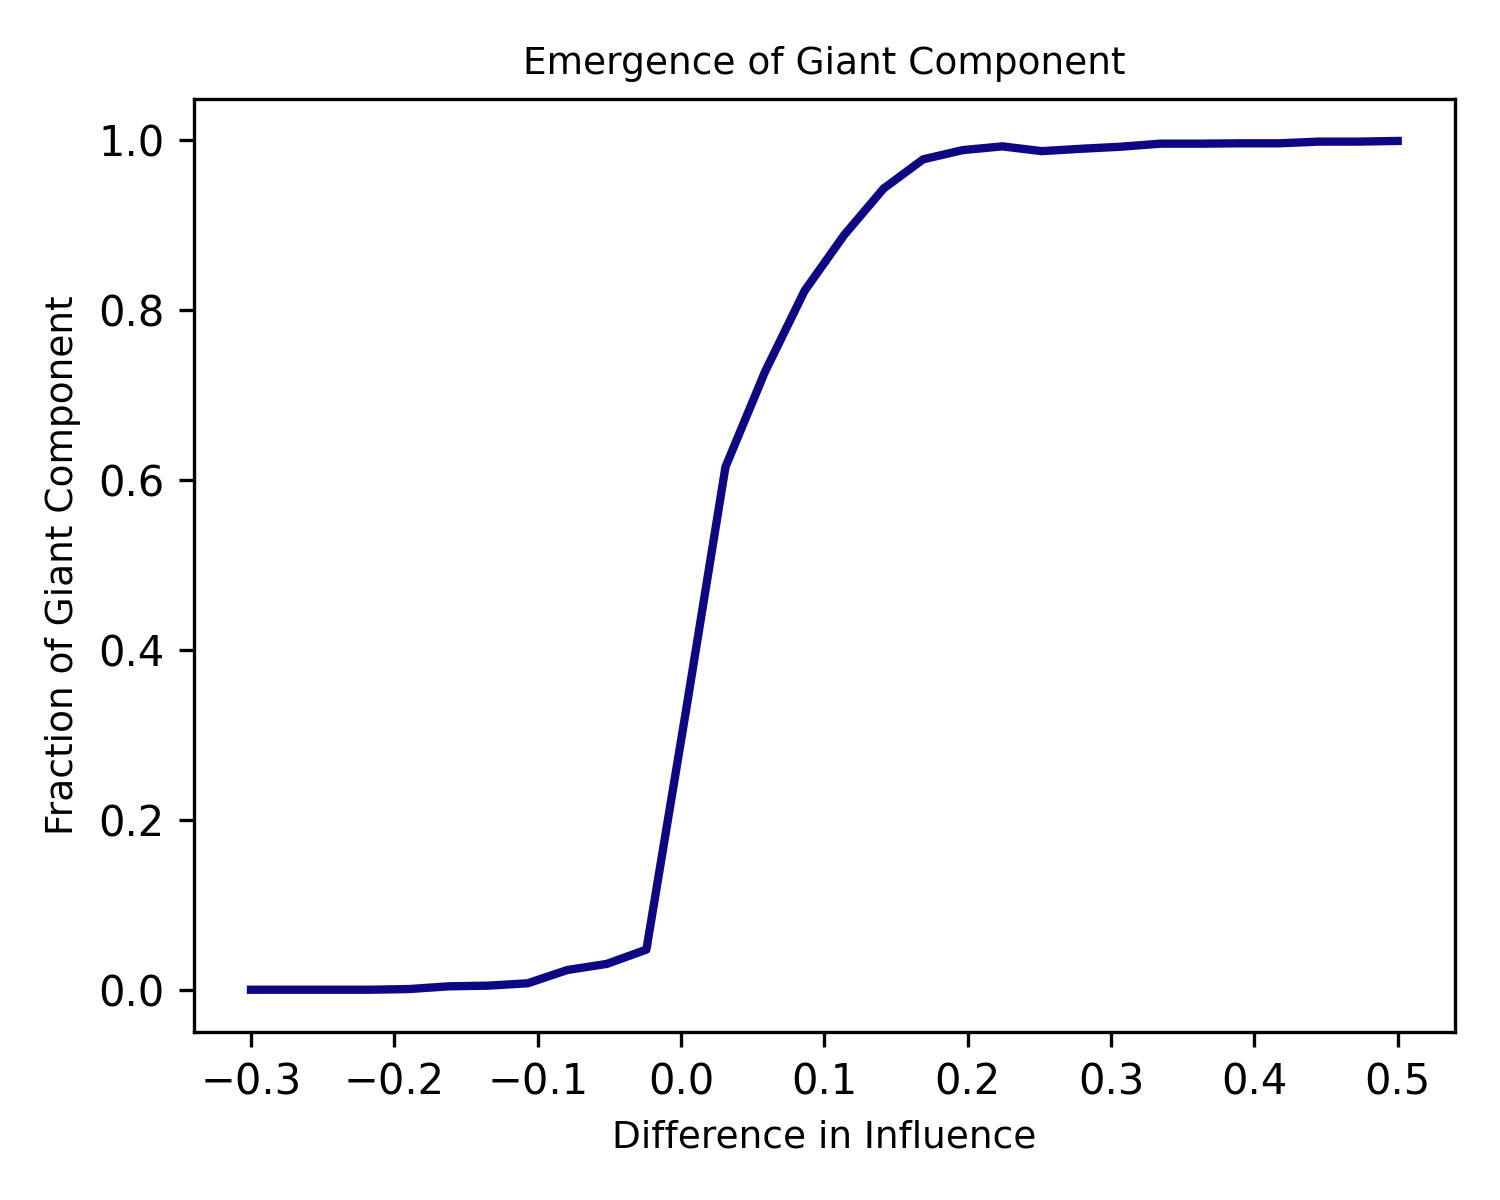
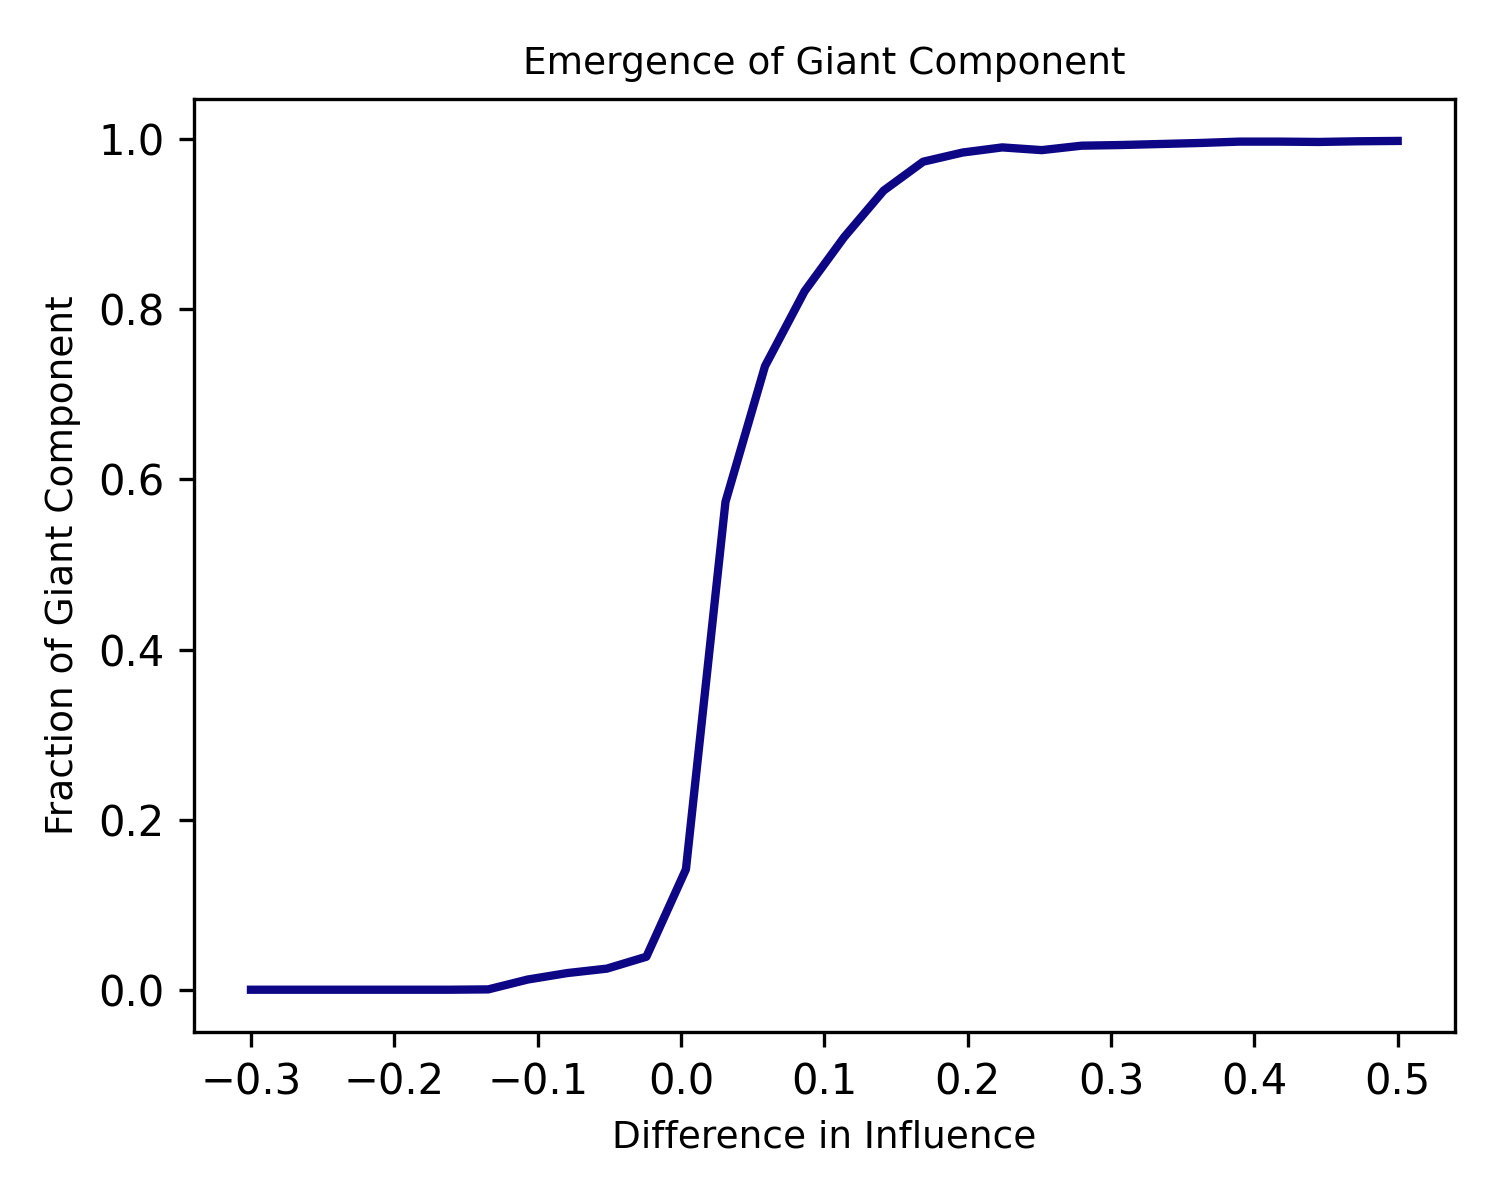
commenting

diff --git a/emergence_different_police_amounts.py b/emergence_different_police_amounts.py
@@ -1,9 +1,10 @@
+# Investigate the emergence of a GC by varying the amount of police
 import numpy as np
-from plotter import NewPlot
-
+from modules.plotter import NewPlot
 from modules.emergence import simulate_emergence
 
-# To explain the variance in the red line, we plot the emergence of the giant component for different amounts of police units
+# To explain the variance in the experiment including police, 
+# we plot the emergence of the giant component for different amounts of police units
 
 # Define parameters common to every simulation and a list of police units and grid sizes
 all_y_withp = []
@@ -22,7 +23,7 @@ num_simulation = 15
 influence_diff_list = np.linspace(-beta / 2, beta / 2, 15)
 
 for ind, units in enumerate(police_units):
-
+    # Run emergence simulation
     onlypolice = False if ind == 0 else True
 
     avg_nop, avg_withp, err_nop, err_withp = simulate_emergence(grid_size=(side_size[ind], side_size[ind]), timesteps=timesteps, alpha=alpha, 
@@ -37,11 +38,9 @@ for ind, units in enumerate(police_units):
 handles, labels = [], []
 plot = NewPlot()
 for ind in range(len(police_units)):
-
     if ind == 0:
         line1, = plot.add_plot(influence_diff_list, plot_avg_nop, ci_min=plot_avg_nop - plot_err_nop, ci_max=plot_avg_nop + plot_err_nop, color="#0d0786")
     line2, = plot.add_plot(influence_diff_list, all_y_withp[ind], ci_min=all_y_withp[ind] - all_err_withp[ind], ci_max=all_y_withp[ind] + all_err_withp[ind], label=f'With Police', color='#facf28')
-
     if ind == 0:
         handles.extend([line1, line2])
         labels.extend(["No Police", "With Police"])
@@ -49,8 +48,4 @@ for ind in range(len(police_units)):
 plot.add_labels('Difference in Influence', 'Fraction of Giant Component')
 plot.add_title('Joint Plot for Different Amounts of Police Units')
 plot.custom_legend(handles, labels)
-# plt.subplots_adjust(bottom=0.28)
-# plt.figtext(0.5, 0.01, f'Emergence of the Giant component in a {side_size[0]}x{side_size[0]} grid (for the blue line). The cases with police are simulated on grids with side lentgh of {police_units} (red lines). Measurements are taken after {timesteps} timesteps and are averaged out {num_simulation} runs. The colored area around the line represents the 95% CI. Alpha is set to {alpha}; the connection threshold to {connection_threshold}; the police threshold (to take action) is set to {police_threshold}; the police effect to {police_effect} of which a fraction of {redistribution_frac} is redistributed to neighbours; the number of police units is {police_units}.',
-#             wrap=True, horizontalalignment='center', fontsize=9)
 plot.save('different_police_amounts_emergence.png')
-# plt.show()

diff --git a/emergence_different_grid_sizes.py b/emergence_different_grid_sizes.py
@@ -1,9 +1,9 @@
+# Investigate the emergence of a GC by varying grid sizes
 import numpy as np
-from plotter import NewPlot
+from modules.plotter import NewPlot
 
 from modules.emergence import simulate_emergence
 
-# For robustness, we analyze the emergence of the giant component for different grid sizes
 
 # Define parameters common to every grid size and a list of sizes
 all_y_nop = []
@@ -23,7 +23,7 @@ num_simulation = 10
 influence_diff_list = np.linspace(-beta / 2, beta / 2, 15)
 
 for L in side_size: # Plot the emergence curve for different grids of size LxL
-
+    # Simulate emergence
     avg_nop, avg_withp, err_nop, err_withp = simulate_emergence(grid_size=(L, L), timesteps=timesteps, alpha=alpha, 
                        connection_threshold=connection_threshold, police_threshold=police_threshold, police_effect=police_effect, 
                        redistribution_frac=redistribution_frac, police_units=police_units, num_simulation=num_simulation, title=f'Emergence_grid_{L}')
@@ -35,11 +35,9 @@ for L in side_size: # Plot the emergence curve for different grids of size LxL
 
 handles, labels = [], []
 plot = NewPlot()
-
 for ind in range(len(side_size)): 
     line1, = plot.add_plot(influence_diff_list, all_y_nop[ind], ci_min=all_y_nop[ind] - all_err_nop[ind], ci_max=all_y_nop[ind] + all_err_nop[ind], color="#0d0786")
     line2, = plot.add_plot(influence_diff_list, all_y_withp[ind], ci_min=all_y_withp[ind] - all_err_withp[ind], ci_max=all_y_withp[ind] + all_err_withp[ind], color='#facf28')
-
     if ind == 0:
         handles.extend([line1, line2])
         labels.extend(["No Police", "With Police"])
@@ -47,8 +45,4 @@ for ind in range(len(side_size)):
 plot.add_labels('Difference in Influence', 'Fraction of Giant Component')
 plot.add_title('Joint Plot for Different Grid Sizes')
 plot.custom_legend(handles, labels)
-# plt.subplots_adjust(bottom=0.28)
-# plt.figtext(0.5, 0.01, f'Emergence of the Giant component in different size grids (for reference, the side of each grid is {side_size} going from right to left, for both colors). Measurements are taken after {timesteps} timesteps and are averaged out {num_simulation} runs. The colored area around the line represents the 95% CI. Alpha is set to {alpha}; the connection threshold to {connection_threshold}; the police threshold (to take action) is set to {police_threshold}; the police effect to {police_effect} of which a fraction of {redistribution_frac} is redistributed to neighbours; the number of police units is {police_units}.',
-#                             wrap=True, horizontalalignment='center', fontsize=9)
 plot.save('different_grid_size_emergence.png')
-# plt.show()

diff --git a/emergence_different_connection_threshold.py b/emergence_different_connection_threshold.py
@@ -1,10 +1,10 @@
+# Investigate the emergence of a GC by varying the threshold that connects two neighbors
 import numpy as np
 import matplotlib.pyplot as plt
-from plotter import NewPlot
+from modules.plotter import NewPlot
 
 from modules.emergence import simulate_emergence
 
-# For robustness, we analyze the emergence of the giant component for different connection thresholds
 
 # Define parameters common to every grid size and a list of sizes
 all_y_nop = []
@@ -25,7 +25,7 @@ save_fig = False
 onlypolice = False
 
 for connection_threshold in connection_threshold_list: # Plot the emergence curve for different grids of size LxL
-
+    # Run emergence simulation
     avg_nop, avg_withp, err_nop, err_withp = simulate_emergence(grid_size=grid_size, timesteps=timesteps, alpha=alpha, 
                        connection_threshold=connection_threshold, police_threshold=police_threshold, police_effect=police_effect, 
                        redistribution_frac=redistribution_frac, police_units=police_units, num_simulation=num_simulation, title=f'Emergence_perc_thr_{connection_threshold}', police=police, onlypolice=onlypolice, savefig=save_fig)
@@ -33,16 +33,10 @@ for connection_threshold in connection_threshold_list: # Plot the emergence curv
     all_y_nop.append(avg_nop)
     all_err_nop.append(err_nop)
 
-colors = ['b', 'g', 'r', 'c']
 plot = NewPlot()
 for ind, thr in enumerate(connection_threshold_list): 
     plot.add_plot(influence_diff_list, all_y_nop[ind], label=f'Connect. thr. = {thr}', ci_min=all_y_nop[ind] - all_err_nop[ind], ci_max=all_y_nop[ind] + all_err_nop[ind])
 
 plot.add_labels('Difference in Influence', 'Fraction of Giant Component')
 plot.add_title('Emergence of Giant Component for Different Connection Thresholds')
-# plt.legend()
-# plt.subplots_adjust(bottom=0.28)
-# plt.figtext(0.5, 0.01, f'Emergence of the Giant component in a {grid_size[0]}x{grid_size[1]} grid. Measurements are taken after {timesteps} timesteps and are averaged out {num_simulation} runs. The colored area around the line represents the 95% CI. Alpha is set to {alpha}; the police threshold (to take action) is set to {police_threshold}; the police effect to {police_effect} of which a fraction of {redistribution_frac} is redistributed to neighbours; the number of police units is {police_units}.',
-#             wrap=True, horizontalalignment='center', fontsize=9)
 plot.save('different_connection_thr.png')
-# plt.show()

diff --git a/emergence_different_alpha.py b/emergence_different_alpha.py
@@ -1,10 +1,8 @@
+# Investigate emergence of GC by varying alpha
 import numpy as np
-import matplotlib.pyplot as plt
-from plotter import NewPlot
-
+from modules.plotter import NewPlot
 from modules.emergence import simulate_emergence
 
-# For robustness, we analyze the emergence of the giant component for different connection thresholds
 
 # Define parameters common to every grid size and a list of sizes
 all_y_nop = []
@@ -24,7 +22,7 @@ save_fig = False
 onlypolice = False
 
 for alpha in alpha_list: # Plot the emergence curve for different grids of size LxL
-
+    # Run emergence simulation
     avg_nop, avg_withp, err_nop, err_withp = simulate_emergence(grid_size=grid_size, timesteps=timesteps, alpha=alpha, 
                        connection_threshold=connection_threshold, police_threshold=police_threshold, police_effect=police_effect, 
                        redistribution_frac=redistribution_frac, police_units=police_units, num_simulation=num_simulation, title=f'Emergence_perc_thr_{connection_threshold}', police=police, onlypolice=onlypolice, savefig=save_fig)
@@ -32,15 +30,10 @@ for alpha in alpha_list: # Plot the emergence curve for different grids of size 
     all_y_nop.append(avg_nop)
     all_err_nop.append(err_nop)
 
-colors = ['b', 'g', 'r', 'c', 'm']
 plot = NewPlot()
-
 for ind, thr in enumerate(alpha_list): 
     plot.add_plot(influence_diff_list, all_y_nop[ind], ci_max=all_y_nop[ind] + all_err_nop[ind], ci_min= all_y_nop[ind] - all_err_nop[ind], label=f'Alpha = {thr}')
 
 plot.add_labels('Difference in Influence', 'Fraction of Giant Component')
 plot.add_title('Emergence of Giant Component for Different Alpha')
-# plt.subplots_adjust(bottom=0.28)
-# plt.figtext(0.5, 0.01, f'Emergence of the Giant component in a {grid_size[0]}x{grid_size[1]} grid. Measurements are taken after {timesteps} timesteps and are averaged out {num_simulation} runs. The colored area around the line represents the 95% CI. The connection threshold to {connection_threshold}; the police threshold (to take action) is set to {police_threshold}; the police effect to {police_effect} of which a fraction of {redistribution_frac} is redistributed to neighbours; the number of police units is {police_units}.',
-#                             wrap=True, horizontalalignment='center', fontsize=9)
 plot.save('different_alpha.png')

diff --git a/visualize.py b/visualize.py
@@ -14,7 +14,7 @@ education = np.random.rand(*grid_size) # Define the education for every cell (he
 income = np.random.rand(*grid_size) # Define the income for every cell (here fixed, but can be linked to data in final model)
 # education = np.full(grid_size, 0.5) # Define the education for every cell with a fixed value of 0.5
 # income = np.full(grid_size, 0.5) # Define the income for every cell with a fixed value of 0.5
-alpha = 0.3 # Assign weight for influence of criminality in own neighbourhood
+alpha = 0.9 # Assign weight for influence of criminality in own neighbourhood
 beta = 1 - alpha # Assign weight for influence of criminality in other neighbourhoods 
 influence_diff = 0 # Assign weight for difference in influence of "bad" neighbourhoods compared to "good" neighbourhoods
 percolation_threshold = 0.5 # Define the percolation threshold to later calculate the giant component

diff --git a/modules/avelanches.py b/modules/avelanches.py
@@ -18,8 +18,9 @@ def detect_avelanche(criminality, new_criminality, threshold): # Detect if an av
 def track_avalanches(criminality, education, income, influence_diff, time_steps, threshold, alpha=0.3):
 
     all_avelanches_sizes = []
+    beta = 1 - alpha
     for step in range(time_steps): # In each time step, update the grid and detect avelanches and their sizes
-        new_criminality = update_grid_nopolice(criminality, education, income, influence_diff, alpha=alpha)
+        new_criminality = update_grid_nopolice(criminality, education, income, influence_diff, alpha=alpha, beta=beta)
         avalanche_sizes, labeled_avalanches = detect_avelanche(criminality, new_criminality, threshold)
         all_avelanches_sizes.extend(avalanche_sizes)
         criminality = new_criminality.copy()

diff --git a/power-law.py b/power-law.py
@@ -1,10 +1,10 @@
 import numpy as np
-from plotter import NewPlot
+from modules.plotter import NewPlot
 from modules.avelanches import track_avalanches
 
-side_lenght = [30, 50, 70, 90]
-time_steps = 40000
-threshold = 0.3
+side_lenght = [30, 50, 70, 90, 150]
+time_steps = 400000
+threshold = 0.05
 influence_diff = 0
 all_sizes = []
 all_frequencies = []
@@ -42,6 +42,7 @@ for sizes, frequencies, side in zip(all_sizes, all_frequencies, side_lenght):
 
 plot = NewPlot()
 for scaled_size, scaled_frequency, side in zip(scaled_sizes, scaled_frequencies, side_lenght):
+    print(scaled_size)
     plot.add_plot(scaled_size, scaled_frequency, label=f'{side}x{side}')
 
 plot.add_title('Data Collapse of Avalanche Size Distribution')

diff --git a/bwt.py b/bwt.py
@@ -6,7 +6,7 @@ from IPython.display import HTML
 from scipy.ndimage import label
 
 from modules.grid_update import update_grid_withpolice, update_grid_nopolice
-from test_files.grids import grid1
+# from test_files.grids import grid1
 
 grid_len = 50
 grid_size = (grid_len, grid_len)
@@ -54,5 +54,6 @@ fig.colorbar(cax, ax=ax)
 ax.set_title('Criminality')
 timesteps = 100
 ani = FuncAnimation(fig, animate, frames=range(0,timesteps), interval=10, repeat = False)
+ani.save('window.gif')
 
 plt.show()
